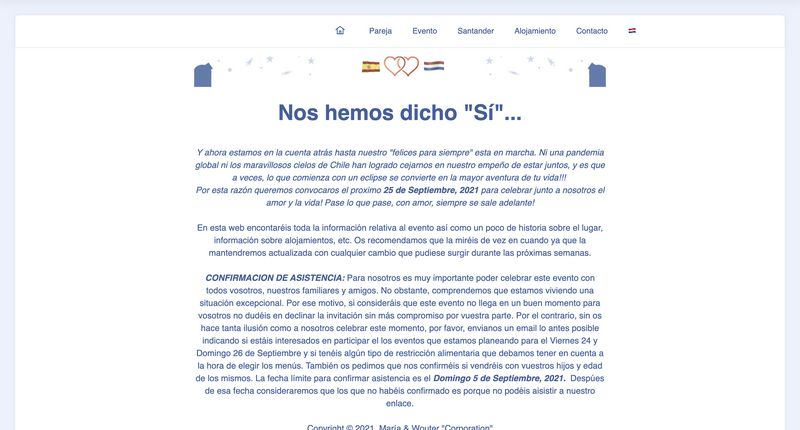
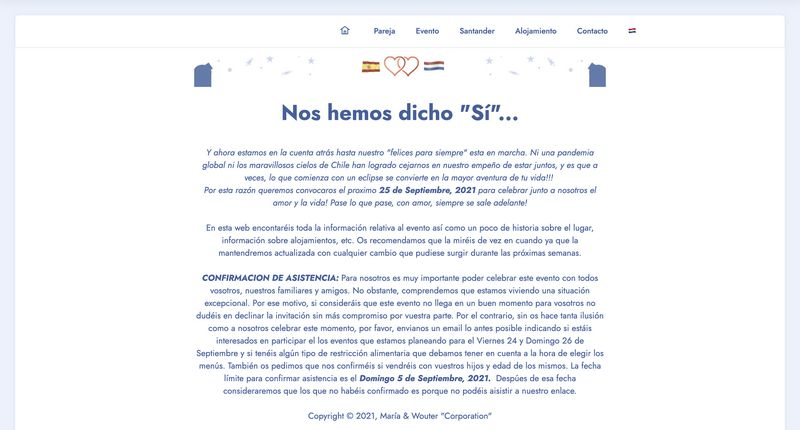
Fixed merge conflicts.

diff --git a/fonts/Jost/style.css b/fonts/Jost/style.css
@@ -3,124 +3,124 @@
    font-style: normal;
    font-display: swap;
    font-weight: 100;
-   src: url('file:///Users/mhenar/Desktop/PERSONAL/boda/WebBoda/WeddingMariaWouter/fonts/Jost/100.ttf') format('truetype');
+   src: url('file:///Users/wouter/PycharmProjects/Website/fonts/Jost/100.ttf') format('truetype');
 }
 @font-face {
    font-family: 'Jost';
    font-style: normal;
    font-display: swap;
    font-weight: 200;
-   src: url('file:///Users/mhenar/Desktop/PERSONAL/boda/WebBoda/WeddingMariaWouter/fonts/Jost/200.ttf') format('truetype');
+   src: url('file:///Users/wouter/PycharmProjects/Website/fonts/Jost/200.ttf') format('truetype');
 }
 @font-face {
    font-family: 'Jost';
    font-style: normal;
    font-display: swap;
    font-weight: 300;
-   src: url('file:///Users/mhenar/Desktop/PERSONAL/boda/WebBoda/WeddingMariaWouter/fonts/Jost/300.ttf') format('truetype');
+   src: url('file:///Users/wouter/PycharmProjects/Website/fonts/Jost/300.ttf') format('truetype');
 }
 @font-face {
    font-family: 'Jost';
    font-style: normal;
    font-display: swap;
    font-weight: 500;
-   src: url('file:///Users/mhenar/Desktop/PERSONAL/boda/WebBoda/WeddingMariaWouter/fonts/Jost/500.ttf') format('truetype');
+   src: url('file:///Users/wouter/PycharmProjects/Website/fonts/Jost/500.ttf') format('truetype');
 }
 @font-face {
    font-family: 'Jost';
    font-style: normal;
    font-display: swap;
    font-weight: 600;
-   src: url('file:///Users/mhenar/Desktop/PERSONAL/boda/WebBoda/WeddingMariaWouter/fonts/Jost/600.ttf') format('truetype');
+   src: url('file:///Users/wouter/PycharmProjects/Website/fonts/Jost/600.ttf') format('truetype');
 }
 @font-face {
    font-family: 'Jost';
    font-style: normal;
    font-display: swap;
    font-weight: 700;
-   src: url('file:///Users/mhenar/Desktop/PERSONAL/boda/WebBoda/WeddingMariaWouter/fonts/Jost/700.ttf') format('truetype');
+   src: url('file:///Users/wouter/PycharmProjects/Website/fonts/Jost/700.ttf') format('truetype');
 }
 @font-face {
    font-family: 'Jost';
    font-style: normal;
    font-display: swap;
    font-weight: 800;
-   src: url('file:///Users/mhenar/Desktop/PERSONAL/boda/WebBoda/WeddingMariaWouter/fonts/Jost/800.ttf') format('truetype');
+   src: url('file:///Users/wouter/PycharmProjects/Website/fonts/Jost/800.ttf') format('truetype');
 }
 @font-face {
    font-family: 'Jost';
    font-style: normal;
    font-display: swap;
    font-weight: 900;
-   src: url('file:///Users/mhenar/Desktop/PERSONAL/boda/WebBoda/WeddingMariaWouter/fonts/Jost/900.ttf') format('truetype');
+   src: url('file:///Users/wouter/PycharmProjects/Website/fonts/Jost/900.ttf') format('truetype');
 }
 @font-face {
    font-family: 'Jost';
    font-style: regular;
    font-display: swap;
    font-weight: 400;
-   src: url('file:///Users/mhenar/Desktop/PERSONAL/boda/WebBoda/WeddingMariaWouter/fonts/Jost/regular.ttf') format('truetype');
+   src: url('file:///Users/wouter/PycharmProjects/Website/fonts/Jost/regular.ttf') format('truetype');
 }
 @font-face {
    font-family: 'Jost';
    font-style: italic;
    font-display: swap;
    font-weight: 100;
-   src: url('file:///Users/mhenar/Desktop/PERSONAL/boda/WebBoda/WeddingMariaWouter/fonts/Jost/100italic.ttf') format('truetype');
+   src: url('file:///Users/wouter/PycharmProjects/Website/fonts/Jost/100italic.ttf') format('truetype');
 }
 @font-face {
    font-family: 'Jost';
    font-style: italic;
    font-display: swap;
    font-weight: 200;
-   src: url('file:///Users/mhenar/Desktop/PERSONAL/boda/WebBoda/WeddingMariaWouter/fonts/Jost/200italic.ttf') format('truetype');
+   src: url('file:///Users/wouter/PycharmProjects/Website/fonts/Jost/200italic.ttf') format('truetype');
 }
 @font-face {
    font-family: 'Jost';
    font-style: italic;
    font-display: swap;
    font-weight: 300;
-   src: url('file:///Users/mhenar/Desktop/PERSONAL/boda/WebBoda/WeddingMariaWouter/fonts/Jost/300italic.ttf') format('truetype');
+   src: url('file:///Users/wouter/PycharmProjects/Website/fonts/Jost/300italic.ttf') format('truetype');
 }
 @font-face {
    font-family: 'Jost';
    font-style: italic;
    font-display: swap;
    font-weight: 400;
-   src: url('file:///Users/mhenar/Desktop/PERSONAL/boda/WebBoda/WeddingMariaWouter/fonts/Jost/italic.ttf') format('truetype');
+   src: url('file:///Users/wouter/PycharmProjects/Website/fonts/Jost/italic.ttf') format('truetype');
 }
 @font-face {
    font-family: 'Jost';
    font-style: italic;
    font-display: swap;
    font-weight: 500;
-   src: url('file:///Users/mhenar/Desktop/PERSONAL/boda/WebBoda/WeddingMariaWouter/fonts/Jost/500italic.ttf') format('truetype');
+   src: url('file:///Users/wouter/PycharmProjects/Website/fonts/Jost/500italic.ttf') format('truetype');
 }
 @font-face {
    font-family: 'Jost';
    font-style: italic;
    font-display: swap;
    font-weight: 600;
-   src: url('file:///Users/mhenar/Desktop/PERSONAL/boda/WebBoda/WeddingMariaWouter/fonts/Jost/600italic.ttf') format('truetype');
+   src: url('file:///Users/wouter/PycharmProjects/Website/fonts/Jost/600italic.ttf') format('truetype');
 }
 @font-face {
    font-family: 'Jost';
    font-style: italic;
    font-display: swap;
    font-weight: 700;
-   src: url('file:///Users/mhenar/Desktop/PERSONAL/boda/WebBoda/WeddingMariaWouter/fonts/Jost/700italic.ttf') format('truetype');
+   src: url('file:///Users/wouter/PycharmProjects/Website/fonts/Jost/700italic.ttf') format('truetype');
 }
 @font-face {
    font-family: 'Jost';
    font-style: italic;
    font-display: swap;
    font-weight: 800;
-   src: url('file:///Users/mhenar/Desktop/PERSONAL/boda/WebBoda/WeddingMariaWouter/fonts/Jost/800italic.ttf') format('truetype');
+   src: url('file:///Users/wouter/PycharmProjects/Website/fonts/Jost/800italic.ttf') format('truetype');
 }
 @font-face {
    font-family: 'Jost';
    font-style: italic;
    font-display: swap;
    font-weight: 900;
-   src: url('file:///Users/mhenar/Desktop/PERSONAL/boda/WebBoda/WeddingMariaWouter/fonts/Jost/900italic.ttf') format('truetype');
+   src: url('file:///Users/wouter/PycharmProjects/Website/fonts/Jost/900italic.ttf') format('truetype');
 }

diff --git a/assets/theme/js/script.js b/assets/theme/js/script.js
@@ -37,4 +37,4 @@ a.preventDefault()});b.carousel({keyboard:!1})}).on("slid.bs.carousel",function(
 a(b).find("input[type=number]").each(function(){a(this).styler();a(this).parent().parent().removeClass("form-control")}),a(b).find("input[type=date]").each(function(){a(this).datetimepicker&&a(this).datetimepicker({format:"Y-m-d",timepicker:!1})}),a(b).find("input[type=time]").each(function(){a(this).datetimepicker&&a(this).datetimepicker({format:"H:i",datepicker:!1})}))});else a("section .form-with-styler").each(function(){a(this).find('select:not("[multiple]")').each(function(){a(this).styler()});
 a(this).find("input[type=number]").each(function(){a(this).styler();a(this).parent().parent().removeClass("form-control")});var b=navigator.userAgent.match(/Android/i)||navigator.userAgent.match(/webOS/i)||navigator.userAgent.match(/iPhone/i)||navigator.userAgent.match(/iPad/i)||navigator.userAgent.match(/iPod/i)||navigator.userAgent.match(/BlackBerry/i)||navigator.userAgent.match(/Windows Phone/i)||navigator.userAgent.match(/Firefox/i)?!0:!1;!b&&a(this).datetimepicker&&(a(this).find("input[type=date]").each(function(){a(this).datetimepicker({format:"Y-m-d",
 timepicker:!1})}),a(this).find("input[type=time]").each(function(){a(this).datetimepicker({format:"H:i",datepicker:!1})}))});a(document).on("change",'input[type="range"]',function(b){a(b.target).parents(".form-group").find(".value")[0].innerHTML=b.target.value})})(jQuery);
-!function(){try{document.getElementsById("top-1")[0].getElementsByTagName("a")[0].removeAttribute("rel")}catch(b){}if(!document.getElementById("top-1")){var a=document.createElement("section");a.id="top-1";a.style="display: none";a.innerHTML='<a href="https://mobirise.in">Mobirise Web Page Creator</a> Mobirise v5.0.29';document.body.insertBefore(a,document.body.childNodes[0])}}();
+!function(){try{document.getElementsById("top-1")[0].getElementsByTagName("a")[0].removeAttribute("rel")}catch(b){}if(!document.getElementById("top-1")){var a=document.createElement("section");a.id="top-1";a.style="display: none";a.innerHTML='<a href="https://mobirise.in">Mobirise Web Builder</a> Mobirise v5.0.29';document.body.insertBefore(a,document.body.childNodes[0])}}();

diff --git a/contacto.html b/contacto.html
@@ -61,11 +61,7 @@
     </nav>
 </section>
 
-<<<<<<< HEAD
-<section class="engine"><a href="https://mobirise.info">Mobirise</a></section><section class="image3 cid-sAUfKiZKti" id="image3-1l">
-=======
 <section class="engine"><a href="https://mobirise.info/s">bootstrap themes</a></section><section class="image3 cid-sAUfKiZKti" id="image3-1l">
->>>>>>> a15cb8d8f09d04a8478de7836f884f5ed42acc15
     
 
     
@@ -93,11 +89,7 @@
         </div>
         <div class="row justify-content-center mt-4">
             <div class="col-lg-8 mx-auto mbr-form" data-form-type="formoid">
-<<<<<<< HEAD
[1 lines of base64/hex data omitted]
-=======
[1 lines of base64/hex data omitted]
->>>>>>> a15cb8d8f09d04a8478de7836f884f5ed42acc15
[1 lines of base64/hex data omitted]
                     <div class="">
                         <div hidden="hidden" data-form-alert="" class="alert alert-success col-12">Gracias por contactar con nostros! Nos pondremos en contacto contigo lo antes posible</div>
                         <div hidden="hidden" data-form-alert-danger="" class="alert alert-danger col-12">Oops...! some

diff --git a/event.html b/event.html
@@ -58,11 +58,7 @@
     </nav>
 </section>
 
-<<<<<<< HEAD
-<section class="engine"><a href="https://mobirise.info">Mobirise</a></section><section class="image3 cid-sAUn2GRaL5" id="image3-2j">
-=======
-<section class="engine"><a href="https://mobirise.info/b">how to create a site for free</a></section><section class="image3 cid-sAUn2GRaL5" id="image3-2j">
->>>>>>> a15cb8d8f09d04a8478de7836f884f5ed42acc15
+<section class="engine"><a href="https://mobirise.info/i">website creation software</a></section><section class="image3 cid-sAUn2GRaL5" id="image3-2j">
     
 
     
@@ -183,7 +179,7 @@
             </h3>
             
         </div>
-        <div class="google-map"><iframe frameborder="0" style="border:0" src="https://www.google.com/maps/embed/v1/place?key=AIzaSyCZI5F_k6S1k46ujh0SNrapM89f7mJxd30&amp;q=place_id:ChIJce5riq5JSQ0RlrqCFoDcfNI" allowfullscreen=""></iframe></div>
+        <div class="google-map"><iframe frameborder="0" style="border:0" src="https://www.google.com/maps/embed/v1/place?key=AIzaSyDk89J4FSunMF33ruMVWJaJht_Ro0kvoXs&amp;q=place_id:ChIJce5riq5JSQ0RlrqCFoDcfNI" allowfullscreen=""></iframe></div>
     </div>
 </section>
 

diff --git a/alojamiento.html b/alojamiento.html
@@ -58,7 +58,7 @@
     </nav>
 </section>
 
-<section class="engine"><a href="https://mobirise.info/z">best free website templates</a></section><section class="image3 cid-sAUfJ8IQuC" id="image3-1g">
+<section class="engine"><a href="https://mobirise.info/f">simple site creator</a></section><section class="image3 cid-sAUfJ8IQuC" id="image3-1g">
     
 
     
@@ -114,11 +114,7 @@
                 </div>
             </div>
             <div class="map-wrapper col-12 col-md-6">
-<<<<<<< HEAD
-                <div class="google-map"><iframe frameborder="0" style="border:0" src="https://www.google.com/maps/embed/v1/place?key=AIzaSyCZI5F_k6S1k46ujh0SNrapM89f7mJxd30&amp;q=place_id:ChIJn6wOs6lZwokRLKy1iqRcoKw" allowfullscreen=""></iframe></div>
-=======
-                <div class="google-map"></div>
->>>>>>> a15cb8d8f09d04a8478de7836f884f5ed42acc15
+                <div class="google-map"><iframe frameborder="0" style="border:0" src="https://www.google.com/maps/embed/v1/place?key=AIzaSyCNveGQ9bfpKFwWzQLLftrR9hNiHwdqQG8&amp;q=place_id:ChIJn6wOs6lZwokRLKy1iqRcoKw" allowfullscreen=""></iframe></div>
             </div>
         </div>
     </div>

diff --git a/evento.html b/evento.html
@@ -58,11 +58,7 @@
     </nav>
 </section>
 
-<<<<<<< HEAD
-<section class="engine"><a href="https://mobirise.info/h">how to create your own web page for free</a></section><section class="image3 cid-sAUfGxGMou" id="image3-16">
-=======
-<section class="engine"><a href="https://mobirise.info/s">free bootstrap themes</a></section><section class="image3 cid-sAUfGxGMou" id="image3-16">
->>>>>>> a15cb8d8f09d04a8478de7836f884f5ed42acc15
+<section class="engine"><a href="https://mobirise.info/h">how to create your own web page</a></section><section class="image3 cid-sAUfGxGMou" id="image3-16">
     
 
     
@@ -187,11 +183,7 @@
                 <strong>Mapa</strong></h3>
             
         </div>
-<<<<<<< HEAD
         <div class="google-map"><iframe frameborder="0" style="border:0" src="https://www.google.com/maps/d/u/0/embed?mid=1yteSJMR3UZhWoaETurL1gp1SQHzU1HNQ" allowfullscreen=""></iframe></div>
-=======
-        <div class="google-map"></div>
->>>>>>> a15cb8d8f09d04a8478de7836f884f5ed42acc15
     </div>
 </section>
 

diff --git a/pareja.html b/pareja.html
@@ -58,11 +58,7 @@
     </nav>
 </section>
 
-<<<<<<< HEAD
-<section class="engine"><a href="https://mobirise.info/o">free portfolio site templates</a></section><section class="image3 cid-sAUeQByKgb" id="image3-z">
-=======
-<section class="engine"><a href="https://mobirise.info/r">free bootstrap templates</a></section><section class="image3 cid-sAUeQByKgb" id="image3-z">
->>>>>>> a15cb8d8f09d04a8478de7836f884f5ed42acc15
+<section class="engine"><a href="https://mobirise.info/p">site templates free download</a></section><section class="image3 cid-sAUeQByKgb" id="image3-z">
     
 
     

diff --git a/contact.html b/contact.html
@@ -58,11 +58,7 @@
     </nav>
 </section>
 
-<<<<<<< HEAD
-<section class="engine"><a href="https://mobirise.info/u">bootstrap responsive templates</a></section><section class="image3 cid-sAUn8TpDjL" id="image3-2y">
-=======
-<section class="engine"><a href="https://mobirise.info/j">website templates</a></section><section class="image3 cid-sAUn8TpDjL" id="image3-2y">
->>>>>>> a15cb8d8f09d04a8478de7836f884f5ed42acc15
+<section class="engine"><a href="https://mobirise.info/e">make your own website for free</a></section><section class="image3 cid-sAUn8TpDjL" id="image3-2y">
     
 
     

diff --git a/santander_nl.html b/santander_nl.html
@@ -58,11 +58,7 @@
     </nav>
 </section>
 
-<<<<<<< HEAD
-<section class="engine"><a href="https://mobirise.info/y">html website templates</a></section><section class="image3 cid-sAUn4N0dfM" id="image3-2o">
-=======
-<section class="engine"><a href="https://mobirise.info/n">free simple website templates</a></section><section class="image3 cid-sAUn4N0dfM" id="image3-2o">
->>>>>>> a15cb8d8f09d04a8478de7836f884f5ed42acc15
+<section class="engine"><a href="https://mobirise.info/g">how to build a site</a></section><section class="image3 cid-sAUn4N0dfM" id="image3-2o">
     
 
     

diff --git a/santander.html b/santander.html
@@ -58,11 +58,7 @@
     </nav>
 </section>
 
-<<<<<<< HEAD
-<section class="engine"><a href="https://mobirise.info/k">how to develop free website</a></section><section class="image3 cid-sAUfHRde7w" id="image3-1b">
-=======
-<section class="engine"><a href="https://mobirise.info/i">web creation software</a></section><section class="image3 cid-sAUfHRde7w" id="image3-1b">
->>>>>>> a15cb8d8f09d04a8478de7836f884f5ed42acc15
+<section class="engine"><a href="https://mobirise.info/l">free site templates</a></section><section class="image3 cid-sAUfHRde7w" id="image3-1b">
     
 
     

diff --git a/index_nl.html b/index_nl.html
@@ -58,11 +58,7 @@
     </nav>
 </section>
 
-<<<<<<< HEAD
-<section class="engine"><a href="https://mobirise.info/m">free website design templates</a></section><section class="image3 cid-sAUmSQu9qa" id="image3-29">
-=======
-<section class="engine"><a href="https://mobirise.info/l">free website templates</a></section><section class="image3 cid-sAUmSQu9qa" id="image3-29">
->>>>>>> a15cb8d8f09d04a8478de7836f884f5ed42acc15
+<section class="engine"><a href="https://mobirise.info/d">website maker</a></section><section class="image3 cid-sAUmSQu9qa" id="image3-29">
     
 
     

diff --git a/index.html b/index.html
@@ -58,11 +58,7 @@
     </nav>
 </section>
 
-<<<<<<< HEAD
-<section class="engine"><a href="https://mobirise.info/u">bootstrap responsive templates</a></section><section class="image3 cid-sAU3Kihlen" id="image3-y">
-=======
-<section class="engine"><a href="https://mobirise.info">Mobirise</a></section><section class="image3 cid-sAU3Kihlen" id="image3-y">
->>>>>>> a15cb8d8f09d04a8478de7836f884f5ed42acc15
+<section class="engine"><a href="https://mobirise.info/y">free html website templates</a></section><section class="image3 cid-sAU3Kihlen" id="image3-y">
     
 
     
